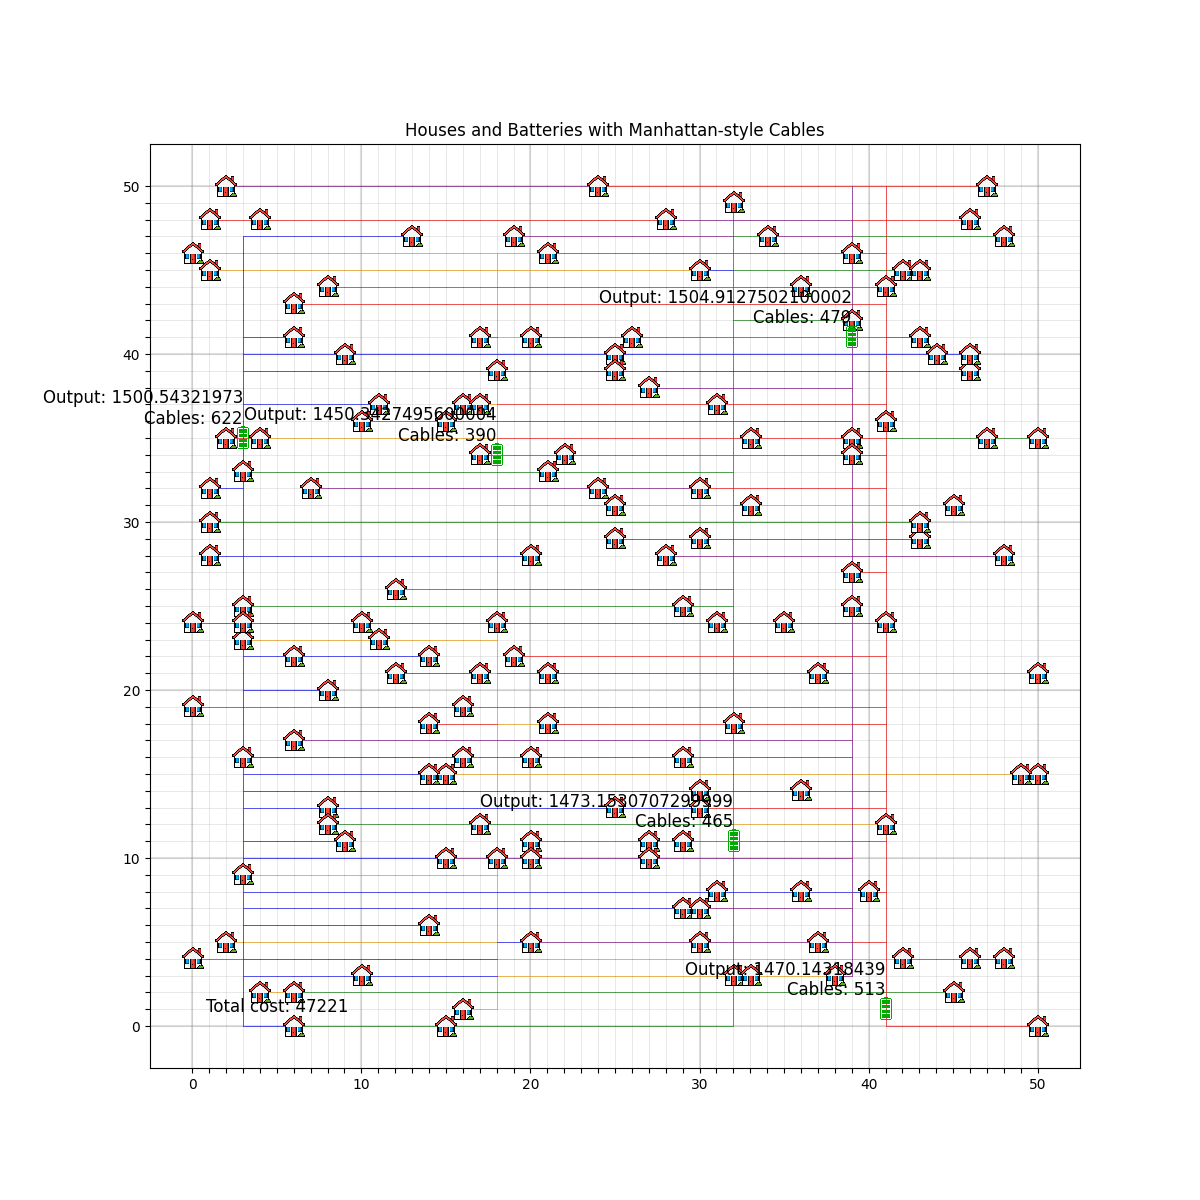
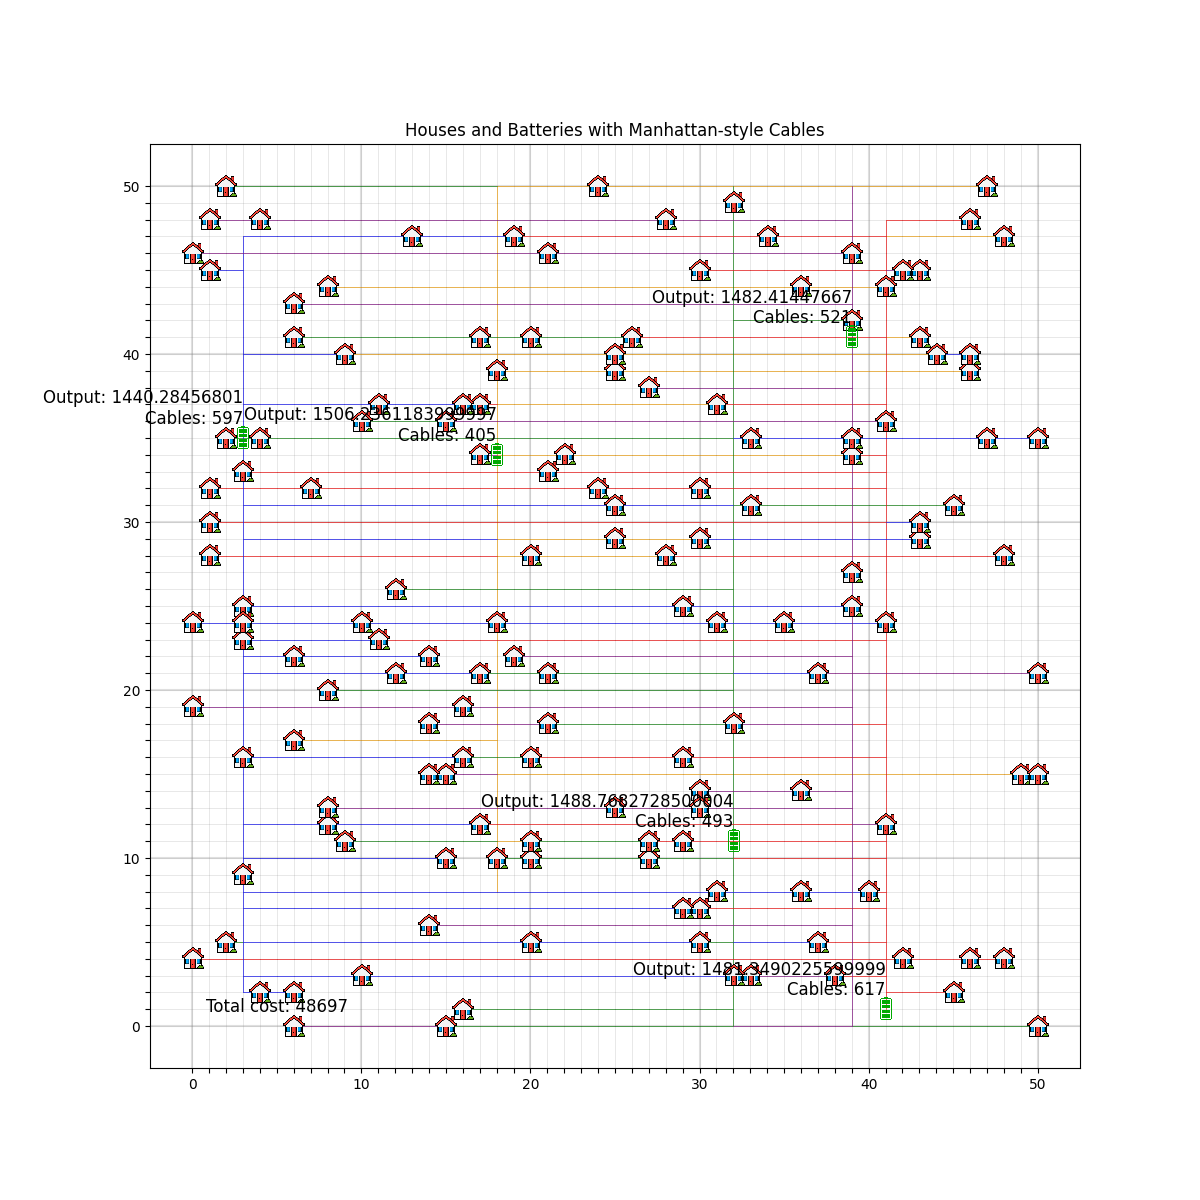
fixed nearest_object_y algorithm and additional changes and improvements to the simulation and experiments

diff --git a/simulate.py b/simulate.py
@@ -3,10 +3,10 @@ from code.classes.district import District
 from code.algorithm.random_alg import RandomAlgorithm
 from code.algorithm.nearest_battery import nearest_battery
 from code.algorithm.nearest_object_x import nearest_object_x
-import code.algorithm.nearest_object_y as nearest_object_y
+from code.algorithm.nearest_object_y import nearest_object_y
 from code.algorithm.nearest_object_rand import nearest_object_rand
 import matplotlib.pyplot as plt
-
+from code.helpers.visualize import visualize
 
 class simulate_algorithm:
     """
@@ -17,7 +17,9 @@ class simulate_algorithm:
         self.iterations = iterations
         self.costs = []
         self.houses_file = houses_file
-        self.batteries_file = batteries_file    
+        self.batteries_file = batteries_file
+        self.lowest_costs = 0
+        self.lowest_district = None    
     
     def simulate(self):
         """
@@ -27,9 +29,9 @@ class simulate_algorithm:
         for i in range(self.iterations):
 
 
-            district1 = District(self.houses_file, self.batteries_file)
+            district = District(self.houses_file, self.batteries_file)
             # Apply the Greedy algorithm to connect houses to batteries
-            algorithm_instance = self.algorithm(district1)
+            algorithm_instance = self.algorithm(district)
             algorithm_instance.connect_houses_to_batteries()
 
 
@@ -39,11 +41,16 @@ class simulate_algorithm:
                 print(f"{count}%")
 
             # Calculate the total costs
-            total_costs = district1.calculate_totals()
+            total_costs = district.calculate_totals()
             self.costs.append(total_costs)
+            if total_costs < self.lowest_costs or self.lowest_costs == 0:
+                self.lowest_costs = total_costs
+                self.lowest_district = district
 
+        print(f"Lowest costs: {self.lowest_costs} for algorithm {self.algorithm.__name__}")
 
         return self.costs
+    
     
 def experiment(houses_file, batteries_file, iterations=100):
     
@@ -55,7 +62,7 @@ def experiment(houses_file, batteries_file, iterations=100):
     sim_object_x = simulate_algorithm(nearest_object_x, iterations, houses_file, batteries_file).simulate()
     print("4/5")
     # run the algorithm for nearest battery and plot
-    #sim_object_y = simulate_algorithm(nearest_object_y, iterations, houses_file, batteries_file).simulate()
+    sim_object_y = simulate_algorithm(nearest_object_y, iterations, houses_file, batteries_file).simulate()
     print("5/5")
     # run the algorithm for nearest object and plot
     sim_obj_rand = simulate_algorithm(nearest_object_rand, iterations, houses_file, batteries_file).simulate()
@@ -64,7 +71,7 @@ def experiment(houses_file, batteries_file, iterations=100):
     plt.hist(sim_rand, bins=iterations)
     plt.hist(sim_battery, bins=iterations)
     plt.hist(sim_object_x, bins=iterations)
-    #plt.hist(sim_object_y, bins=iterations)
+    plt.hist(sim_object_y, bins=iterations)
     plt.hist(sim_obj_rand, bins=iterations)
     # title and labels
     plt.title("Algorithms")
@@ -78,7 +85,7 @@ def experiment(houses_file, batteries_file, iterations=100):
 
 #run the algorithm for district 1
 #test debug
-district1_houses = 'data/Huizen&Batterijen/district_1/district-1_houses.csv'
-district1_batteries = 'data/Huizen&Batterijen/district_1/district-1_batteries.csv'
+#district1_houses = 'data/Huizen&Batterijen/district_1/district-1_houses.csv'
+#district1_batteries = 'data/Huizen&Batterijen/district_1/district-1_batteries.csv'
 
-experiment(district1_houses, district1_batteries,iterations=10000)
+#experiment(district1_houses, district1_batteries,iterations=10000)

diff --git a/main.py b/main.py
@@ -29,19 +29,15 @@ def main():
     # for each district
     for i in range(0, 3):
         print(f'District {i+1}')
+
         # set up experiment
-        experimento = District(districts_houses[i], districts_batteries[i])
-        random_instance = RandomAlgorithm(experimento)
-        random_instance.connect_houses_to_batteries()
-        experimento.calculate_totals()
+        experiment(districts_houses[i], districts_batteries[i], iterations)
+
         
         # check experiment
         #output_data = experiment.check_50()
-
-        experiment(districts_houses[i], districts_batteries[i], iterations)
        
 
-        visualize(experimento, i)
 
 
         
